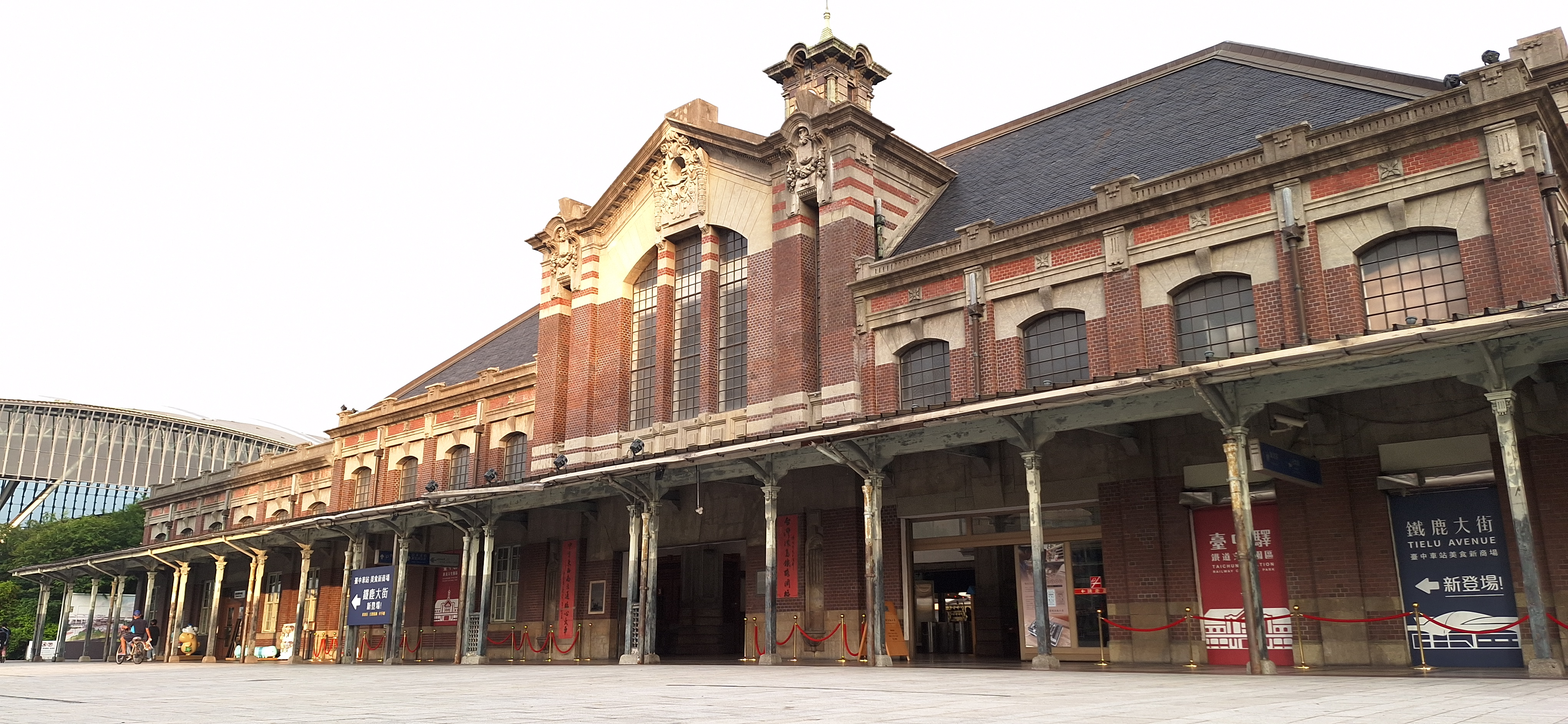
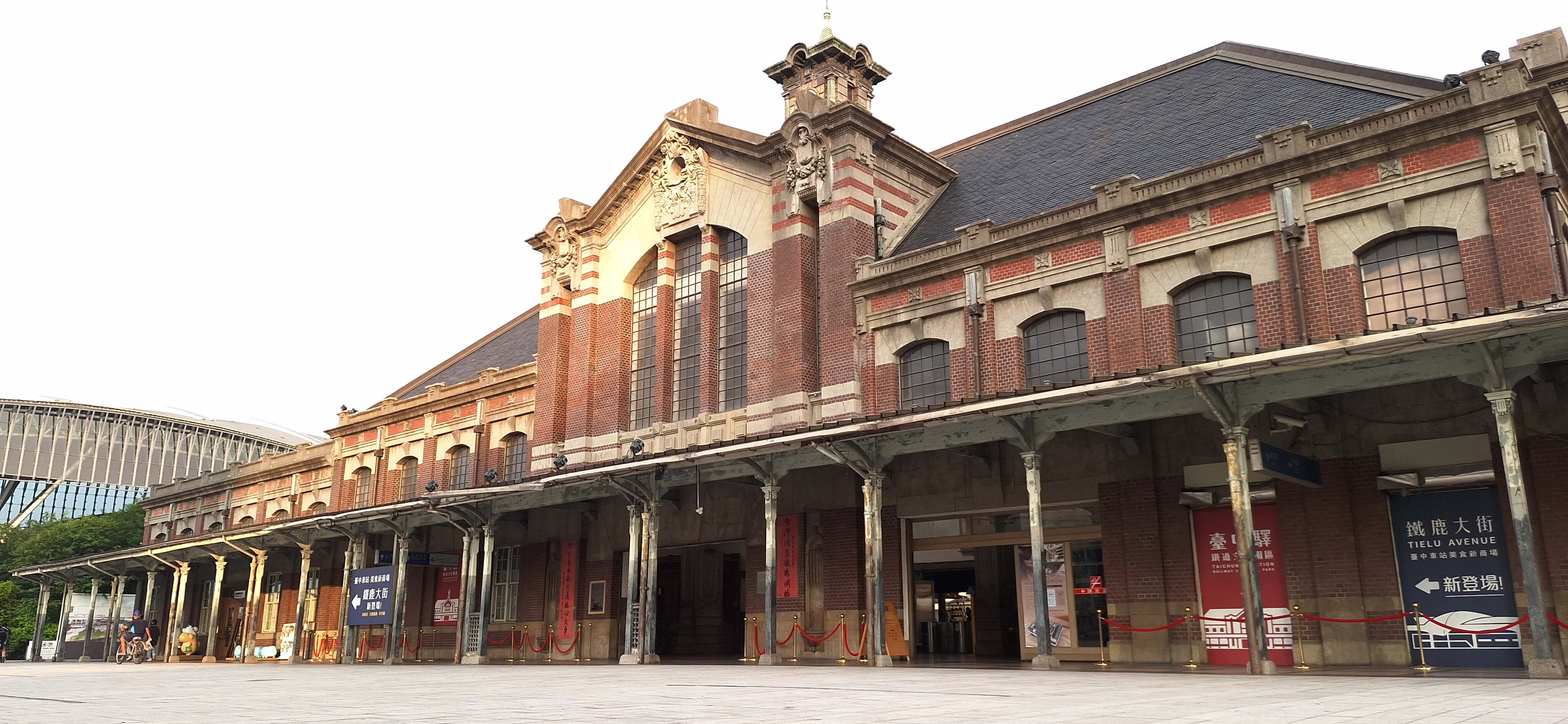
img compress

diff --git a/index.html b/index.html
@@ -45,43 +45,37 @@
             <section class="carousel-inner">
                 <section class="carousel-item active">
                     <section class="position-relative">
-                        <img src="img/1.jpg" class="d-block w-100" alt="旅遊圖片1"
-                            style="height: 45rem; object-fit: cover;">
+                        <img src="img/1.jpg" class="d-block w-100" alt="旅遊圖片1">
                         <span class="watermark position-absolute bottom-0 end-0 m-3">BO GUEI CHEN</span>
                     </section>
                 </section>
                 <section class="carousel-item">
                     <section class="position-relative">
-                        <img src="img/2.jpg" class="d-block w-100" alt="旅遊圖片2"
-                            style="height: 45rem; object-fit: cover;">
+                        <img src="img/2.jpg" class="d-block w-100" alt="旅遊圖片2">
                         <span class="watermark position-absolute bottom-0 end-0 m-3">BO GUEI CHEN</span>
                     </section>
                 </section>
                 <section class="carousel-item">
                     <section class="position-relative">
-                        <img src="img/3.jpg" class="d-block w-100" alt="旅遊圖片3"
-                            style="height: 45rem; object-fit: cover;">
+                        <img src="img/3.jpg" class="d-block w-100" alt="旅遊圖片3">
                         <span class="watermark position-absolute bottom-0 end-0 m-3">BO GUEI CHEN</span>
                     </section>
                 </section>
                 <section class="carousel-item">
                     <section class="position-relative">
-                        <img src="img/4.jpg" class="d-block w-100" alt="旅遊圖片4"
-                            style="height: 45rem; object-fit: cover;">
+                        <img src="img/4.jpg" class="d-block w-100" alt="旅遊圖片4">
                         <span class="watermark position-absolute bottom-0 end-0 m-3">BO GUEI CHEN</span>
                     </section>
                 </section>
                 <section class="carousel-item">
                     <section class="position-relative">
-                        <img src="img/5.jpg" class="d-block w-100" alt="旅遊圖片5"
-                            style="height: 45rem; object-fit: cover;">
+                        <img src="img/5.jpg" class="d-block w-100" alt="旅遊圖片5">
                         <span class="watermark position-absolute bottom-0 end-0 m-3">BO GUEI CHEN</span>
                     </section>
                 </section>
                 <section class="carousel-item">
                     <section class="position-relative">
-                        <img src="img/6.jpg" class="d-block w-100" alt="旅遊圖片6"
-                            style="height: 45rem; object-fit: cover;">
+                        <img src="img/6.jpg" class="d-block w-100" alt="旅遊圖片6">
                         <span class="watermark position-absolute bottom-0 end-0 m-3">BO GUEI CHEN</span>
                     </section>
                 </section>

diff --git a/style/style.scss b/style/style.scss
@@ -46,6 +46,12 @@ body {
         position: relative;
         padding-top: 5rem; // Adjust for fixed header height
 
+        img.d-block {
+            width: 100%;
+            height: 90vh;
+            object-fit: cover
+        }
+
         .photo-theme-item img {
             transition: transform 0.3s, box-shadow 0.3s, border 0.3s;
             border: 3px solid transparent;

diff --git a/style/style.css b/style/style.css
@@ -36,6 +36,12 @@ body main {
   position: relative;
   padding-top: 5rem;
 }
+body main img.d-block {
+  width: 100%;
+  height: 90vh;
+  -o-object-fit: cover;
+     object-fit: cover;
+}
 body main .photo-theme-item img {
   transition: transform 0.3s, box-shadow 0.3s, border 0.3s;
   border: 3px solid transparent;
